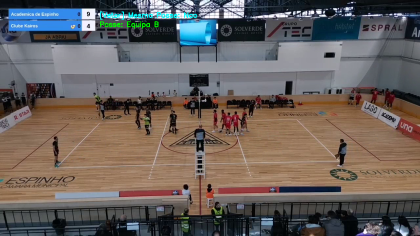
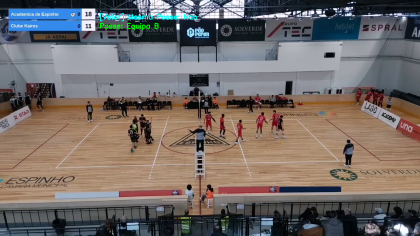
scoreboard 9 para 10

diff --git a/scoreboard_template_reader.py b/scoreboard_template_reader.py
@@ -408,9 +408,10 @@ def match_digits_by_components(
         return None
     if max_digits > 0 and len(components) > max_digits:
         return None
-    if max_digits > 1 and len(components) != 1:
-        return None
     if max_digits > 1 and len(components) == 1:
+        # Single-component fallback is acceptable for point regions when only
+        # one narrow digit is visible. Genuine two-digit scores such as 10 must
+        # also be allowed through this path when two components are present.
         single_component_width = int(components[0].shape[1])
         if single_component_width > int(round(binary.shape[1] * 0.55)):
             return None

diff --git a/config.py b/config.py
@@ -27,9 +27,10 @@ class Config:
     # 6-2
     #start_ts: str = "00:29:55"
     # start_ts: str = "00:34:25"
-    # start_ts: str = "00:27:45"
-    start_ts: str = "00:31:42"
-    end_ts: str = "00:46:17"
+    # 10 - 5
+    start_ts: str = "00:46:17"
+    #start_ts: str = "00:31:42"
+    end_ts: str = "00:47:17"
 
     # Models
     yolo_model: str = "yolov8s.pt"  # modelo small para melhor detecção de bola
